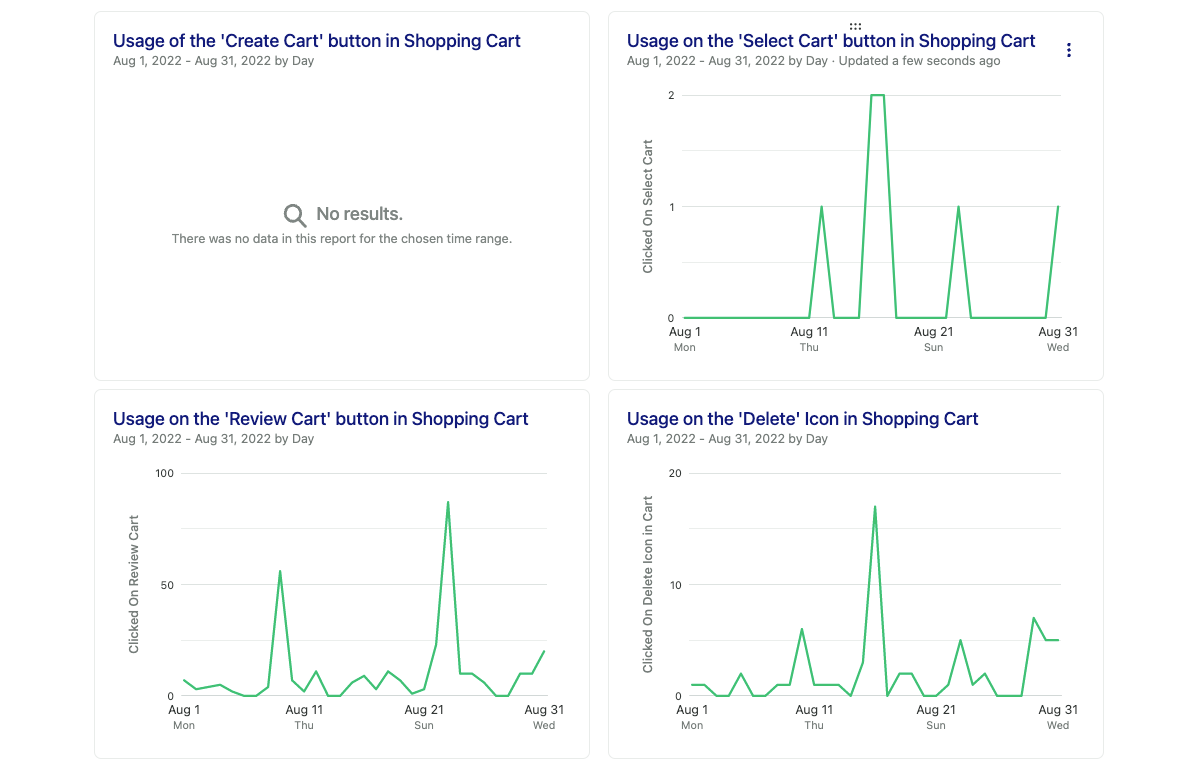
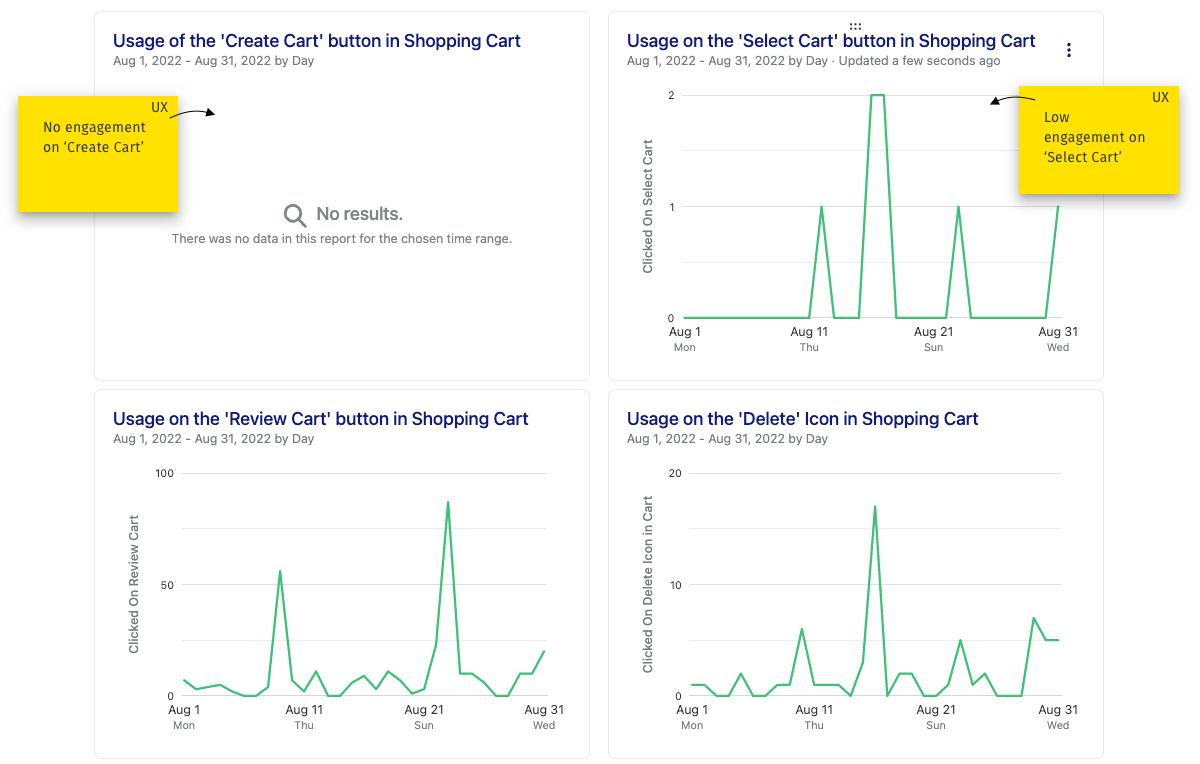
adding chart for minicart

Changed region(s): [[0.8325, 0.0903, 0.9867, 0.2709], [0.0, 0.1204, 0.1542, 0.301]]

diff --git a/minicart.html b/minicart.html
@@ -113,8 +113,8 @@
 	         <div class="row">
 	            <div class="col-xs-12">
 	              <p class="portfolio-detail-body">
-         The previous product designer that worked on the portal had introduced a multiple mini-cart feature, 
-         which was an uncommon design pattern. Common design patterns were not being used, which I suspected could be 
+         The previous product designer that worked on the portal had introduced a 'multiple mini-cart' feature, 
+         which was an uncommon design pattern. Common design patterns for a mini-cart were not being used, which I suspected could be 
           impacting on the usability of the mini-cart and contributing to cart abandonment or drop off where the user was adding to the mini-cart but not
           moving into the shopping cart page.
          
@@ -156,7 +156,7 @@
            Quantitative Research - Engagement with Existing Design </h3>
 
               <p class="portfolio-detail-body ">
-              I wanted to ascertain whether features introduced with the existing mini-cart were being used. One of the 
+              I wanted to ascertain whether features introduced with the existing multiple mini-cart were being used. One of the 
               features was a 'Create Cart' button that enabled a user to create multiple mini-carts. Speaking to the 
               product designer who worked on this previously he advised that the idea behind the design 
               was to enable partners to add products to the mini-cart for a particular customer and then enable them to create a new mini-cart for 
@@ -164,24 +164,24 @@
              </p>
 
              <p class="portfolio-detail-body ">
-             The design pattern was a new one, and seemed to be a bit complex, so I was interested to see if it was being adopted by our partners.
+             This design pattern was something not common to mini-carts and seemed to be a bit complex, so I was interested to see if it was being adopted by our partners.
              I began by gathering data on the existing design. Analytics from 'Heap' showed that there was no engagement with the 'Create Cart'
-             button. Speaking to partners about this feature they advised that they did not use it also. So as expected this uncommon design pattern had not 
-             been adopted so needed to be changed.
+             button. Speaking to partners about this feature they also advised that they did not use it. <b>So as expected this uncommon design pattern had not 
+             been adopted, so needed to be changed.</b>
              </p>
 
              <p class="portfolio-detail-body ">
-              The analytics graph from 'Heap' showed no engagement on the 'Create Cart' button and almost no engagement on the 'Select Cart'
-              button (this button enabled partners to move between carts). This data proved that these features were not used. There was engagement on the
+              The analytics graph from 'Heap' showed <b>no engagement on the 'Create Cart' button and almost no engagement on the 'Select Cart'
+              button  </b> (this button allowed partners to move between carts). This data proved that these features were not used. There was engagement on the
              
-             and 'Review Cart' and 'Delete' icon buttons, so these features would be included in the new design of the cart.
+              'Review Cart' and 'Delete' icon buttons, so these features would be included in the new design of the cart.
              </p>
             </div> 
           </div> <!--close row -->
 
           <div class="row">
             <div class="col-lg-12">
-              <h3 class="retro-sub-heading2">Existing Mini-Cart Design</h3>
+              <h3 class="retro-sub-heading2">Existing 'Multiple Cart' Design</h3>
               <div class="col-lg-12 image-padding">
               <img src="assets/images/mini-cart_existing-min.png" style="background-color:#FFF; " class="img-responsive" alt="Existing Mini-Cart Design">
             </div> 
@@ -189,8 +189,8 @@
         </div> <!--close row -->
 
           <div class="row">
-            <div class="col-lg-12">
-        <h3 class="retro-sub-heading2">Engagement on Mini-Cart Design</h3>
+            <div class="col-lg-12 image-padding">
+        <h3 class="retro-sub-heading2">Engagement on 'Multiple Cart' Design</h3>
         <div class="col-lg-12 image-padding">
         <img src="assets/images/Usage_on_mini-cart-min.png" style="background-color:#FFF; " class="img-responsive" alt="Heap Engagement Existing Mini-Cart Design">
       </div>
@@ -209,10 +209,10 @@
                 Online Research - Identifying Common Design Patterns </h3>
 
 	              <p class="portfolio-detail-body ">
-                  From my research I was able to quickly identify design patterns that most e-commerce products use for their mini-cart feature.
+                  From my research I was able to quickly identify design patterns that most e-commerce products used for their mini-carts.
                   These included:
                   <ol>
-                    <li class="portfolio-detail-body ">Showing an indicator of the number of items in the mini-cart.</li>
+                    <li class="portfolio-detail-body ">Indicating the number of items that are  in the mini-cart.</li>
                     <li class="portfolio-detail-body ">Opening the mini-cart whenever the user clicks on 'add to cart'.</li>
                     <li class="portfolio-detail-body ">Displaying the number of items in the cart, along with the total price.</li>
                     <li class="portfolio-detail-body ">Allowing the user to delete each item individually from the mini-cart.</li>
@@ -226,21 +226,30 @@
 
 
           <div class="row">
-            <div class="col-xs-12 col-sm-12 col-md-12 col-lg-12">
-                <h2 class="number-subheading solace-padding">
-     Partner Feedback on Existing Mini-Cart</h2>
-       </div>
-       </div> <!--close row-->      
+            <div class="col-lg-12">
   
+              <h3 class="number-subheading ">
+                Proposed Design - Stage_1 Improvements </h3>
+  
+              <p class="portfolio-detail-body ">
+              I discussed improvements with the development team and they advised that they could implement the needed changes in two stages
+              as there were already a lot of commitments involved in upcoming sprints. The first stage would remove the 'multiple cart'
+              feature and add an indicator of items to the cart, improve the usability by allowing the user to click from the mini-cart into the shopping cart and also 
+              opening the mini-cart whenever a user added a product. 
+         </p>
 
-        
-           <div class="row">
-            <div class="col-lg-12 image-padding">
-              
-              <img src="assets/images/feedback_catalogue_1.png" style="background-color:#FFF; " class="img-responsive" alt="Partner feedback catalogue issues">
-                             </div>
-          </div> <!-- close row -->
-       
+         <p class="portfolio-detail-body ">
+        The screenshot below shows the legacy product card design being used with the
+        re-design of the mini-cart to add common design patterns that were mentioned previously.
+     </p>
+  </div>
+  </div>
+
+  <div class="row">
+<div class="col-lg-12 image-padding">
+<img src="assets/images/legacy_card_cartdesign-min.png" style="background-color:#FFF; " class="img-responsive" alt="Legacy card with mini-cart design ">
+</div>
+</div> 
 
 
        

diff --git a/NCE.html b/NCE.html
@@ -1207,12 +1207,22 @@ This project involved numerous meetings and discussions with key stakeholders an
                                       </div>
                                  </div>
 
+                                 
                                
                                        </div><!--close row -->  
+
+
+                                      
+
+
+
                     
                                 </div> <!--close container -->
 	   
                                 
+
+
+
                                 <div class="container-fluid NCE-div-color designprocess-padding">
                                   <div class="row">
                                     <div class="col-xs-12">
